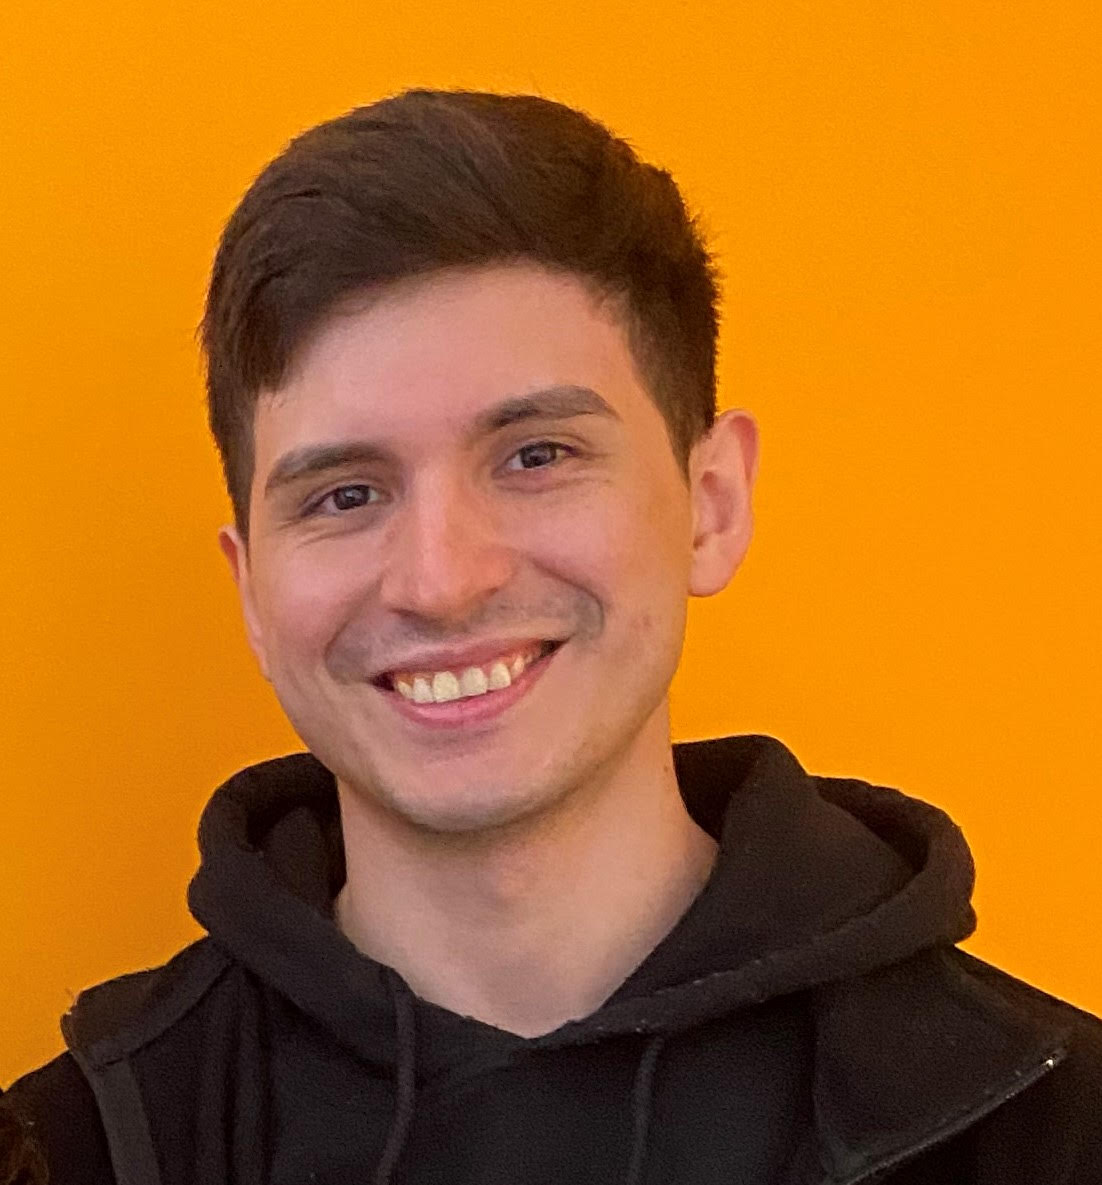
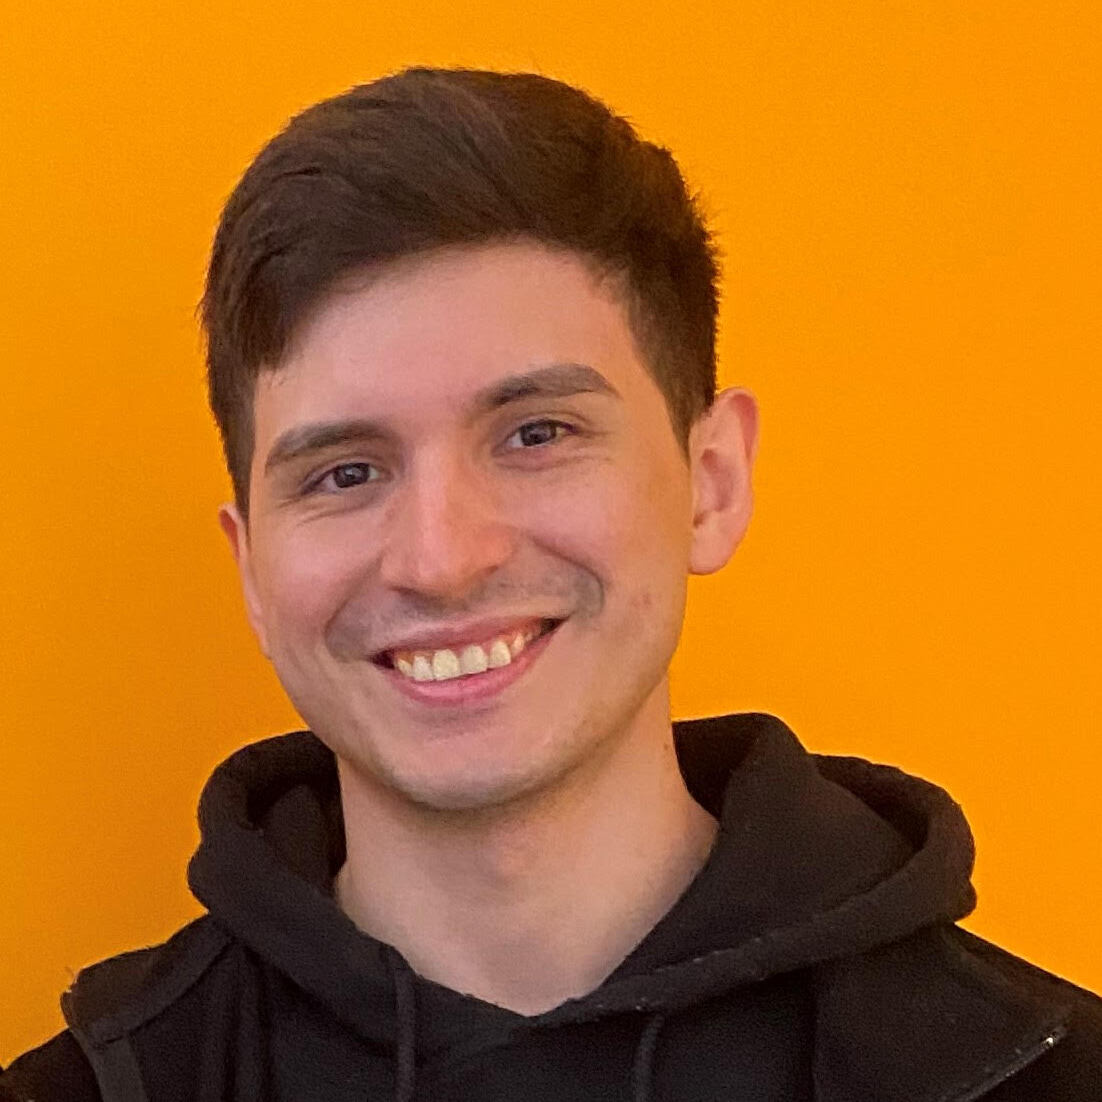
Fix gonzalez photo

diff --git a/modality/index.html b/modality/index.html
@@ -5,7 +5,7 @@
     
       <meta charset="utf-8">
 <meta name="viewport" content="width=device-width, initial-scale=1, maximum-scale=1, user-scalable=no">
-<meta name="revised" content="2022-08-23T15:47:35 -03">
+<meta name="revised" content="2022-08-23T15:54:23 -03">
 <title>Modalidad de cursada :: Organización de Datos 75.06/95.58</title>
 <link rel="shortcut icon" href="/images/favicon.png" type="image/x-icon" />
 <link href="/css/nucleus.css" rel="stylesheet">

diff --git a/tps/index.html b/tps/index.html
@@ -5,7 +5,7 @@
     
       <meta charset="utf-8">
 <meta name="viewport" content="width=device-width, initial-scale=1, maximum-scale=1, user-scalable=no">
-<meta name="revised" content="2022-08-23T15:47:35 -03">
+<meta name="revised" content="2022-08-23T15:54:23 -03">
 <title>Trabajos prácticos :: Organización de Datos 75.06/95.58</title>
 <link rel="shortcut icon" href="/images/favicon.png" type="image/x-icon" />
 <link href="/css/nucleus.css" rel="stylesheet">

diff --git a/404.html b/404.html
@@ -5,7 +5,7 @@
     
       <meta charset="utf-8">
 <meta name="viewport" content="width=device-width, initial-scale=1, maximum-scale=1, user-scalable=no">
-<meta name="revised" content="2022-08-23T15:47:35 -03">
+<meta name="revised" content="2022-08-23T15:54:23 -03">
 <title>404 Page not found :: Organización de Datos 75.06/95.58</title>
 <link rel="shortcut icon" href="/images/favicon.png" type="image/x-icon" />
 <link href="/css/nucleus.css" rel="stylesheet">

diff --git a/calendar/index.html b/calendar/index.html
@@ -5,7 +5,7 @@
     
       <meta charset="utf-8">
 <meta name="viewport" content="width=device-width, initial-scale=1, maximum-scale=1, user-scalable=no">
-<meta name="revised" content="2022-08-23T15:47:35 -03">
+<meta name="revised" content="2022-08-23T15:54:23 -03">
 <title>Calendario :: Organización de Datos 75.06/95.58</title>
 <link rel="shortcut icon" href="/images/favicon.png" type="image/x-icon" />
 <link href="/css/nucleus.css" rel="stylesheet">

diff --git a/categories/index.html b/categories/index.html
@@ -5,7 +5,7 @@
     
       <meta charset="utf-8">
 <meta name="viewport" content="width=device-width, initial-scale=1, maximum-scale=1, user-scalable=no">
-<meta name="revised" content="2022-08-23T15:47:35 -03">
+<meta name="revised" content="2022-08-23T15:54:23 -03">
 <title>Categories :: Organización de Datos 75.06/95.58</title>
 <link rel="shortcut icon" href="/images/favicon.png" type="image/x-icon" />
 <link href="/css/nucleus.css" rel="stylesheet">

diff --git a/exercises/index.html b/exercises/index.html
@@ -5,7 +5,7 @@
     
       <meta charset="utf-8">
 <meta name="viewport" content="width=device-width, initial-scale=1, maximum-scale=1, user-scalable=no">
-<meta name="revised" content="2022-08-23T15:47:35 -03">
+<meta name="revised" content="2022-08-23T15:54:23 -03">
 <title>Ejercicios :: Organización de Datos 75.06/95.58</title>
 <link rel="shortcut icon" href="/images/favicon.png" type="image/x-icon" />
 <link href="/css/nucleus.css" rel="stylesheet">

diff --git a/tags/prácticos/index.html b/tags/prácticos/index.html
@@ -5,7 +5,7 @@
     
       <meta charset="utf-8">
 <meta name="viewport" content="width=device-width, initial-scale=1, maximum-scale=1, user-scalable=no">
-<meta name="revised" content="2022-08-23T15:47:35 -03">
+<meta name="revised" content="2022-08-23T15:54:23 -03">
 <title>prácticos :: Organización de Datos 75.06/95.58</title>
 <link rel="shortcut icon" href="/images/favicon.png" type="image/x-icon" />
 <link href="/css/nucleus.css" rel="stylesheet">

diff --git a/resources/index.html b/resources/index.html
@@ -5,7 +5,7 @@
     
       <meta charset="utf-8">
 <meta name="viewport" content="width=device-width, initial-scale=1, maximum-scale=1, user-scalable=no">
-<meta name="revised" content="2022-08-23T15:47:35 -03">
+<meta name="revised" content="2022-08-23T15:54:23 -03">
 <title>Recursos :: Organización de Datos 75.06/95.58</title>
 <link rel="shortcut icon" href="/images/favicon.png" type="image/x-icon" />
 <link href="/css/nucleus.css" rel="stylesheet">

diff --git a/tags/trabajos/index.html b/tags/trabajos/index.html
@@ -5,7 +5,7 @@
     
       <meta charset="utf-8">
 <meta name="viewport" content="width=device-width, initial-scale=1, maximum-scale=1, user-scalable=no">
-<meta name="revised" content="2022-08-23T15:47:35 -03">
+<meta name="revised" content="2022-08-23T15:54:23 -03">
 <title>trabajos :: Organización de Datos 75.06/95.58</title>
 <link rel="shortcut icon" href="/images/favicon.png" type="image/x-icon" />
 <link href="/css/nucleus.css" rel="stylesheet">

diff --git a/index.html b/index.html
@@ -6,7 +6,7 @@
     
       <meta charset="utf-8">
 <meta name="viewport" content="width=device-width, initial-scale=1, maximum-scale=1, user-scalable=no">
-<meta name="revised" content="2022-08-23T15:47:35 -03">
+<meta name="revised" content="2022-08-23T15:54:23 -03">
 <title>Home :: Organización de Datos 75.06/95.58</title>
 <link rel="shortcut icon" href="/images/favicon.png" type="image/x-icon" />
 <link href="/css/nucleus.css" rel="stylesheet">

diff --git a/tags/index.html b/tags/index.html
@@ -5,7 +5,7 @@
     
       <meta charset="utf-8">
 <meta name="viewport" content="width=device-width, initial-scale=1, maximum-scale=1, user-scalable=no">
-<meta name="revised" content="2022-08-23T15:47:35 -03">
+<meta name="revised" content="2022-08-23T15:54:23 -03">
 <title>Tags :: Organización de Datos 75.06/95.58</title>
 <link rel="shortcut icon" href="/images/favicon.png" type="image/x-icon" />
 <link href="/css/nucleus.css" rel="stylesheet">

diff --git a/_footer/index.html b/_footer/index.html
@@ -5,7 +5,7 @@
     
       <meta charset="utf-8">
 <meta name="viewport" content="width=device-width, initial-scale=1, maximum-scale=1, user-scalable=no">
-<meta name="revised" content="2022-08-23T15:47:35 -03">
+<meta name="revised" content="2022-08-23T15:54:23 -03">
 <title> :: Organización de Datos 75.06/95.58</title>
 <link rel="shortcut icon" href="/images/favicon.png" type="image/x-icon" />
 <link href="/css/nucleus.css" rel="stylesheet">
